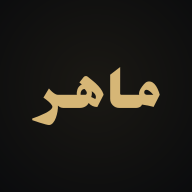
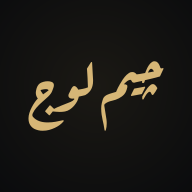
چيم لوج: الاسم يفتح صفحة الكريدتس، الدامبل يحدّث بس، وخط Oswald لاسم التمرين (v81)
Claude-Session: https://claude.ai/code/session_01WkkKEXeXMmR17dA8Cavjmu

Changed region(s): [[0.125, 0.3125, 0.875, 0.6875]]

diff --git a/index.html b/index.html
@@ -8,8 +8,9 @@
 <link rel="manifest" href="manifest.webmanifest">
 <link rel="icon" href="icon-192.png">
 <link rel="apple-touch-icon" href="icon-192.png">
-<title>ماهر</title>
+<title>چيم لوج</title>
 <style>
+@font-face{font-family:"Oswald";src:url(fonts/oswald.woff2) format("woff2");font-weight:200 700;font-style:normal;font-display:swap;unicode-range:U+0000-00FF,U+0131,U+0152-0153,U+02BB-02BC,U+02C6,U+02DA,U+02DC,U+2000-206F,U+2074,U+20AC,U+2122,U+2191,U+2193,U+2212,U+2215}
 @font-face{font-family:"Inter";src:url(fonts/inter.woff2) format("woff2");font-weight:100 900;font-style:normal;font-display:swap;unicode-range:U+0000-00FF,U+0131,U+0152-0153,U+02BB-02BC,U+02C6,U+02DA,U+02DC,U+2000-206F,U+2074,U+20AC,U+2122,U+2191,U+2193,U+2212,U+2215}
 :root{--scb:#000;--sci:#0c0c0c;--font:"Inter",system-ui,"Noto Naskh Arabic","Segoe UI",Tahoma,sans-serif;--fnum:inherit;--rad:14px;--radb:11px;--radp:99px;--bw:1px;--sh:none;--ttl:none;--ls:0;--bg:#0e0e0f;--s1:#17171a;--s2:#202024;--bd:#2d2d33;--tx:#ece8e1;--mu:#968f85;--ac:#c38d4f;--ac2:#e2b37c;--ok:#7bb072;--mid:#d6b05a;--bad:#d06c57;--onac:#160e05;--hero:#1d1810;--tx2:#cfc6b8;--ph:#55504a;--okbd:#3b5a37;--okbg:#1c2a1a;--midbd:#5c4d2a;--midbg:#2b2616;--badbg:#2a1a15;--acbd:#4a3a28;--acbg:#33261a;--oktx:#a6d69c;--midtx:#e5c97f;--badtx:#f0b3a3}
 *{box-sizing:border-box;-webkit-tap-highlight-color:transparent}
@@ -424,7 +425,7 @@ html[data-th=granite] #sess .ex.wn{background:linear-gradient(180deg,#221e14,#1a
 #sess .exname{min-height:44px;display:flex;align-items:center}
 #sess .scell .inp::placeholder{color:var(--mu);opacity:.55;font-weight:500;font-size:17px}
 /* v78: الاسم «ماهر» بالعربي بخط جمهورية ممدود (كشيدة) كمسار SVG */
-.brand .wmk{font-family:"BasQ",var(--font);font-weight:700;font-size:23px;line-height:1.3;color:var(--tx2);opacity:.82;direction:rtl;flex:none;white-space:nowrap}
+.brand .wmk{font-family:"BasQ",var(--font);font-weight:700;font-size:23px;line-height:1.3;color:var(--tx2);opacity:.82;direction:rtl;flex:none;white-space:nowrap;cursor:pointer;-webkit-tap-highlight-color:transparent}
 /* v73: جملة تحت سطر Cycle */
 @font-face{font-family:"BasQ";src:url(fonts/ruqaa.woff2) format("woff2");font-weight:700;font-display:swap}
 .qt{margin:12px auto 0;max-width:360px;padding:0 10px;text-align:center;font-family:"BasQ",var(--font);font-weight:700;font-size:23px;line-height:1.8;color:var(--tx2);opacity:.82;direction:rtl;text-transform:none;letter-spacing:0;min-height:3.6em}
@@ -518,6 +519,7 @@ body{overflow-x:clip;max-width:100vw;touch-action:pan-y}
 .wnav .pri.wb{font-size:18px}
 .wnav .wb.wt{font-size:18px;font-weight:700}
 .wname.core{color:var(--ac2)}
+.wname{font-family:"Oswald","Inter",system-ui,sans-serif;font-weight:500;letter-spacing:.03em;color:var(--tx2);opacity:.85}.wname.core{opacity:.8}
 .wnav .wn1{flex:1}
 #sheet{position:fixed;inset:0;z-index:30}
 .sbk{position:absolute;inset:0;background:rgba(0,0,0,.55)}
@@ -601,7 +603,7 @@ html[data-th=granite] .pst.full{color:var(--gd)}
 </head>
 <body>
 <header class="top">
-  <a class="brand" id="brand" href="https://www.facebook.com/share/1HWtZibWS7/" target="_blank" rel="noopener noreferrer"></a>
+  <div class="brand" id="brand"></div>
   <button class="btn sm pri" id="updBtn" hidden></button>
 </header>
 <main id="view"></main>
@@ -619,11 +621,11 @@ html[data-th=granite] .pst.full{color:var(--gd)}
 <script src="quotes.js"></script>
 <script>
 'use strict';
-const VER='80';
+const VER='81';
 const KEY='gymlog.v1';
 /* ================= اللغة / Language ================= */
 const I18N={
-en:{brand:'<svg class="lg" viewBox="0 0 34 22" fill="none" stroke="currentColor" stroke-width="2" stroke-linecap="round" aria-hidden="true"><path d="M11 11h12"/><rect x="5" y="5" width="4" height="12" rx="1.2" fill="currentColor"/><rect x="25" y="5" width="4" height="12" rx="1.2" fill="currentColor"/><path d="M2 8.5v5M32 8.5v5"/></svg><span class="wmk" aria-label="ماهر">ماهر</span>',title:"ماهر",langBtn:'عربي',tabs:['Home','Log','Program','Exercises','File'],update:'Update available — tap',
+en:{brand:'<svg class="lg" viewBox="0 0 34 22" fill="none" stroke="currentColor" stroke-width="2" stroke-linecap="round" aria-hidden="true"><path d="M11 11h12"/><rect x="5" y="5" width="4" height="12" rx="1.2" fill="currentColor"/><rect x="25" y="5" width="4" height="12" rx="1.2" fill="currentColor"/><path d="M2 8.5v5M32 8.5v5"/></svg><span class="wmk" data-a="credits" role="button" aria-label="چيم لوج">چيم لوج</span>',title:"چيم لوج",langBtn:'عربي',tabs:['Home','Log','Program','Exercises','File'],update:'Update available — tap',
  next:'Next session',coreL:'Core',start:'Start',draftOpen:'Unsaved session in progress',draftEdit:'Editing a session',resume:'Continue',
  last7:'Last 7 days',sessions:'sessions',lastSess:'Last session',min3:'Weekly minimum is 3 sessions.',
  bkNone:'No backup yet.',bkAgo:n=>`Last backup was ${n} day(s) ago.`,bkWarn:' If Chrome data is cleared, the log goes with it.',bkNowBtn:'Save a backup file now',
@@ -660,7 +662,7 @@ en:{brand:'<svg class="lg" viewBox="0 0 34 22" fill="none" stroke="currentColor"
  aiTarget:'Target',aiWeight:'Weight',aiSets:'Sets',aiForm:'Form',aiClean:'clean (no momentum, full control)',aiNotClean:'not marked clean',
  aiLast:'Previous',aiStatus:'Status',aiNote:'Note',aiNotDone:'Not done',aiCoreTag:'[core]',bw:'bodyweight',
  st2:{q1:'qualified 1 of 2',up:'increase earned',stuck:n=>`${n} sessions at this weight without an increase`},
- mdTitle:"ماهر — Backup",mdExported:'Exported',mdSessions:'Sessions',mdProgram:'Program',mdLog:'Log (newest first)',
+ mdTitle:"چيم لوج — Backup",mdExported:'Exported',mdSessions:'Sessions',mdProgram:'Program',mdLog:'Log (newest first)',
  mdCols:['#','Exercise','Weight','Target','Core','Notes'],mdSCols:['Exercise','Weight','Sets','Clean','Note'],mdData:'Data used by “Restore” in the app — do not edit',yes:'✓',
  csvH:['Date','Cycle','Day','Exercise','Weight','Sets','Set count','Total reps','Clean','Core','Note'],coreLine:'Core',themeT:'Theme',histNote:n=>`${n} past session(s) from your earlier log were added.`,todayL:'Today',otherDay:'Start a different day',newInstead:'Start a new session instead',weekOf:n=>`${n} session(s) in the last 7 days · goal 3`,
  syncT:'Encrypted auto-backup (GitHub)',syncHint:'After every session the whole log is encrypted on this phone and uploaded to your repo. Without the passphrase the file is unreadable.',
@@ -675,7 +677,7 @@ en:{brand:'<svg class="lg" viewBox="0 0 34 22" fill="none" stroke="currentColor"
  syncPub:'Your encrypted backups are going to a PUBLIC repo. Create a private repo, then tap Turn off and enable the backup again with the new repo name.',undoRestore:'Undo last restore',confUndoRestore:'Go back to the data you had before the last restore?',undoDone:'Back to your data before the restore ✓',
  restoredSkip:n=>`Restored ✓ (${n} damaged session(s) skipped)`,syncAfterRestore:'Turn on encrypted auto-backup on this phone with the same repo and passphrase?'
 },
-ar:{brand:'<svg class="lg" viewBox="0 0 34 22" fill="none" stroke="currentColor" stroke-width="2" stroke-linecap="round" aria-hidden="true"><path d="M11 11h12"/><rect x="5" y="5" width="4" height="12" rx="1.2" fill="currentColor"/><rect x="25" y="5" width="4" height="12" rx="1.2" fill="currentColor"/><path d="M2 8.5v5M32 8.5v5"/></svg><span class="wmk" aria-label="ماهر">ماهر</span>',title:"ماهر",langBtn:'EN',tabs:['الرئيسية','السجل','البرنامج','التمارين','الملف'],update:'فيه تحديث — اضغط',
+ar:{brand:'<svg class="lg" viewBox="0 0 34 22" fill="none" stroke="currentColor" stroke-width="2" stroke-linecap="round" aria-hidden="true"><path d="M11 11h12"/><rect x="5" y="5" width="4" height="12" rx="1.2" fill="currentColor"/><rect x="25" y="5" width="4" height="12" rx="1.2" fill="currentColor"/><path d="M2 8.5v5M32 8.5v5"/></svg><span class="wmk" data-a="credits" role="button" aria-label="چيم لوج">چيم لوج</span>',title:"چيم لوج",langBtn:'EN',tabs:['الرئيسية','السجل','البرنامج','التمارين','الملف'],update:'فيه تحديث — اضغط',
  next:'الجلسة الجاية',coreL:'الأساسي',start:'ابدأ',draftOpen:'جلسة مفتوحة لسه ماتحفظتش',draftEdit:'تعديل جلسة',resume:'كمّل',
  last7:'آخر ٧ أيام',sessions:'جلسات',lastSess:'آخر جلسة',min3:'الحد الأدنى في الأسبوع ٣ جلسات.',
  bkNone:'لسه ماعملتش ولا نسخة احتياطية.',bkAgo:n=>`آخر نسخة احتياطية من ${n} يوم.`,bkWarn:' لو بيانات Chrome اتمسحت، السجل هيضيع معاها.',bkNowBtn:'احفظ نسخة في ملف دلوقتي',
@@ -712,7 +714,7 @@ ar:{brand:'<svg class="lg" viewBox="0 0 34 22" fill="none" stroke="currentColor"
  aiTarget:'الهدف',aiWeight:'الوزن',aiSets:'المجموعات',aiForm:'الأداء',aiClean:'نضيف (من غير مرجحة وبتحكّم كامل)',aiNotClean:'مش متعلّم نضيف',
  aiLast:'المرة اللي فاتت',aiStatus:'الحالة',aiNote:'ملاحظة',aiNotDone:'ماتلعبش',aiCoreTag:'[أساسي]',bw:'وزن الجسم',
  st2:{q1:'مؤهل ١ من ٢',up:'استحق زيادة',stuck:n=>`${n} جلسات على نفس الوزن من غير زيادة`},
- mdTitle:"ماهر — نسخة احتياطية",mdExported:'اتعملت',mdSessions:'الجلسات',mdProgram:'البرنامج',mdLog:'السجل (الأحدث الأول)',
+ mdTitle:"چيم لوج — نسخة احتياطية",mdExported:'اتعملت',mdSessions:'الجلسات',mdProgram:'البرنامج',mdLog:'السجل (الأحدث الأول)',
  mdCols:['#','التمرين','الوزن','الهدف','أساسي','تعليمات'],mdSCols:['التمرين','الوزن','المجموعات','نضيف','ملاحظة'],mdData:'بيانات بيستخدمها زرار «استرجاع» في التطبيق — ماتعدّلهاش',yes:'✓',
  csvH:['التاريخ','Cycle','اليوم','التمرين','الوزن','المجموعات','عدد المجموعات','إجمالي العدّات','نضيف','أساسي','ملاحظة'],coreLine:'الأساسي',themeT:'الشكل',histNote:n=>`اتضاف ${n} جلسة من سجلك القديم.`,todayL:'النهارده',otherDay:'ابدأ يوم تاني',newInstead:'ابدأ جلسة جديدة بدلها',weekOf:n=>`${n} جلسة في آخر ٧ أيام · الهدف ٣`,
  syncT:'نسخة أوتوماتيك مشفّرة (GitHub)',syncHint:'بعد كل جلسة السجل كله بيتشفّر على الموبايل وبيترفع للريبو بتاعك. من غير العبارة السرية الملف مش بيتفتح.',
@@ -939,6 +941,15 @@ function applyLang(){applyTheme();
   document.querySelectorAll('.tabs button').forEach((b,i)=>{b.innerHTML=TABICO[i]+'<span>'+L.tabs[i]+'</span>'});
 }
 function saveUI(){try{localStorage.setItem('gymlog.ui',JSON.stringify({t:tab,s:!$('#sess').hidden,y:window.scrollY,at:Date.now()}))}catch(e){}}
+function openCredits(){
+  const ar=LANG==='ar';
+  modal(`<div style="text-align:center;padding:6px 4px 2px">
+  <div style="font-family:'BasQ',var(--font);font-weight:700;font-size:34px;line-height:1.5;color:var(--tx2)">چيم لوج</div>
+  <div class="mu" style="margin:2px 0 18px">${tr('تطبيق من تطويري أنا','An app made by me')}</div>
+  <div style="font-size:20px;font-weight:700;margin-bottom:4px">${tr('أحمد ماهر','Ahmed Maher')}</div>
+  <div class="mu" style="margin-bottom:18px">${tr('صاحب التطبيق وصانعه','Creator of this app')}</div>
+  <a class="btn pri w" href="https://www.facebook.com/share/1HWtZibWS7/" target="_blank" rel="noopener noreferrer" style="display:block;text-decoration:none;text-align:center">${tr('صفحتي على فيسبوك','My Facebook page')}</a>
+  <div class="mu" style="margin-top:14px;font-size:12px">v${VER}</div></div>`)}
 async function hardRefresh(){
   const lg=document.querySelector('.brand .lg');if(lg)lg.classList.add('spin');
   saveUI();try{await sq}catch(e){}
@@ -1722,6 +1733,7 @@ document.addEventListener('touchend',e=>{if(!pok||pmode!==1){pok=false;return}po
 document.addEventListener('touchcancel',()=>{if(pmode===1){const v=$('#view');v.style.transform='';v.style.opacity='';}pok=false},{passive:true});
 document.addEventListener('click',ev=>{
   if(ev.target.closest('.brand .lg')){hardRefresh();return}
+  if(ev.target.closest('.brand .wmk')){openCredits();return}
   const tb=ev.target.closest('.tabs button');if(tb){navTab(tb.dataset.tab);return}
   if(ev.target.id==='modal'){closeModal();return}
   const b=ev.target.closest('[data-a]');if(!b)return;

diff --git a/sw.js b/sw.js
@@ -1,7 +1,7 @@
 // رقم النسخة بييجي من index.html (sw.js?v=VER): غيّر VER هناك بس
 const V=new URL(self.location.href).searchParams.get('v')||'0';
 const C='gym-v'+V;
-const FILES=['./','./index.html','./manifest.webmanifest','./icon-192.png','./icon-512.png','./quotes.js','./fonts/ruqaa.woff2','./fonts/inter.woff2'];
+const FILES=['./','./index.html','./manifest.webmanifest','./icon-192.png','./icon-512.png','./quotes.js','./fonts/ruqaa.woff2','./fonts/inter.woff2','./fonts/oswald.woff2'];
 // النسخة الجديدة بتستنى: التطبيق بيظهر زرار «فيه تحديث» وانت اللي تدوس (مفيش إعادة تحميل في نص التمرين)
 self.addEventListener('install',e=>e.waitUntil(caches.open(C).then(c=>c.addAll(FILES))));
 self.addEventListener('activate',e=>e.waitUntil(caches.keys().then(ks=>Promise.all(ks.filter(k=>k.startsWith('gym-')&&k!==C).map(k=>caches.delete(k)))).then(()=>self.clients.claim())));

diff --git a/quotes.js b/quotes.js
@@ -1,4 +1,4 @@
-/* ماهر — جمل الشاشة الرئيسية (تحت سطر Cycle وفوق «التفاصيل")
+/* چيم لوج — جمل الشاشة الرئيسية (تحت سطر Cycle وفوق «التفاصيل")
    الحالة بتتحدد من آخر جلسة:
    start  = لسه مفيش ولا جلسة
    live   = فيه جلسة مفتوحة لسه ما خلصتش

diff --git a/README.md b/README.md
@@ -1,3 +1,3 @@
-# ماهر
+# چيم لوج
 
 **افتح التطبيق:** https://notimetocry29-dot.github.io/Gymlog-app/
